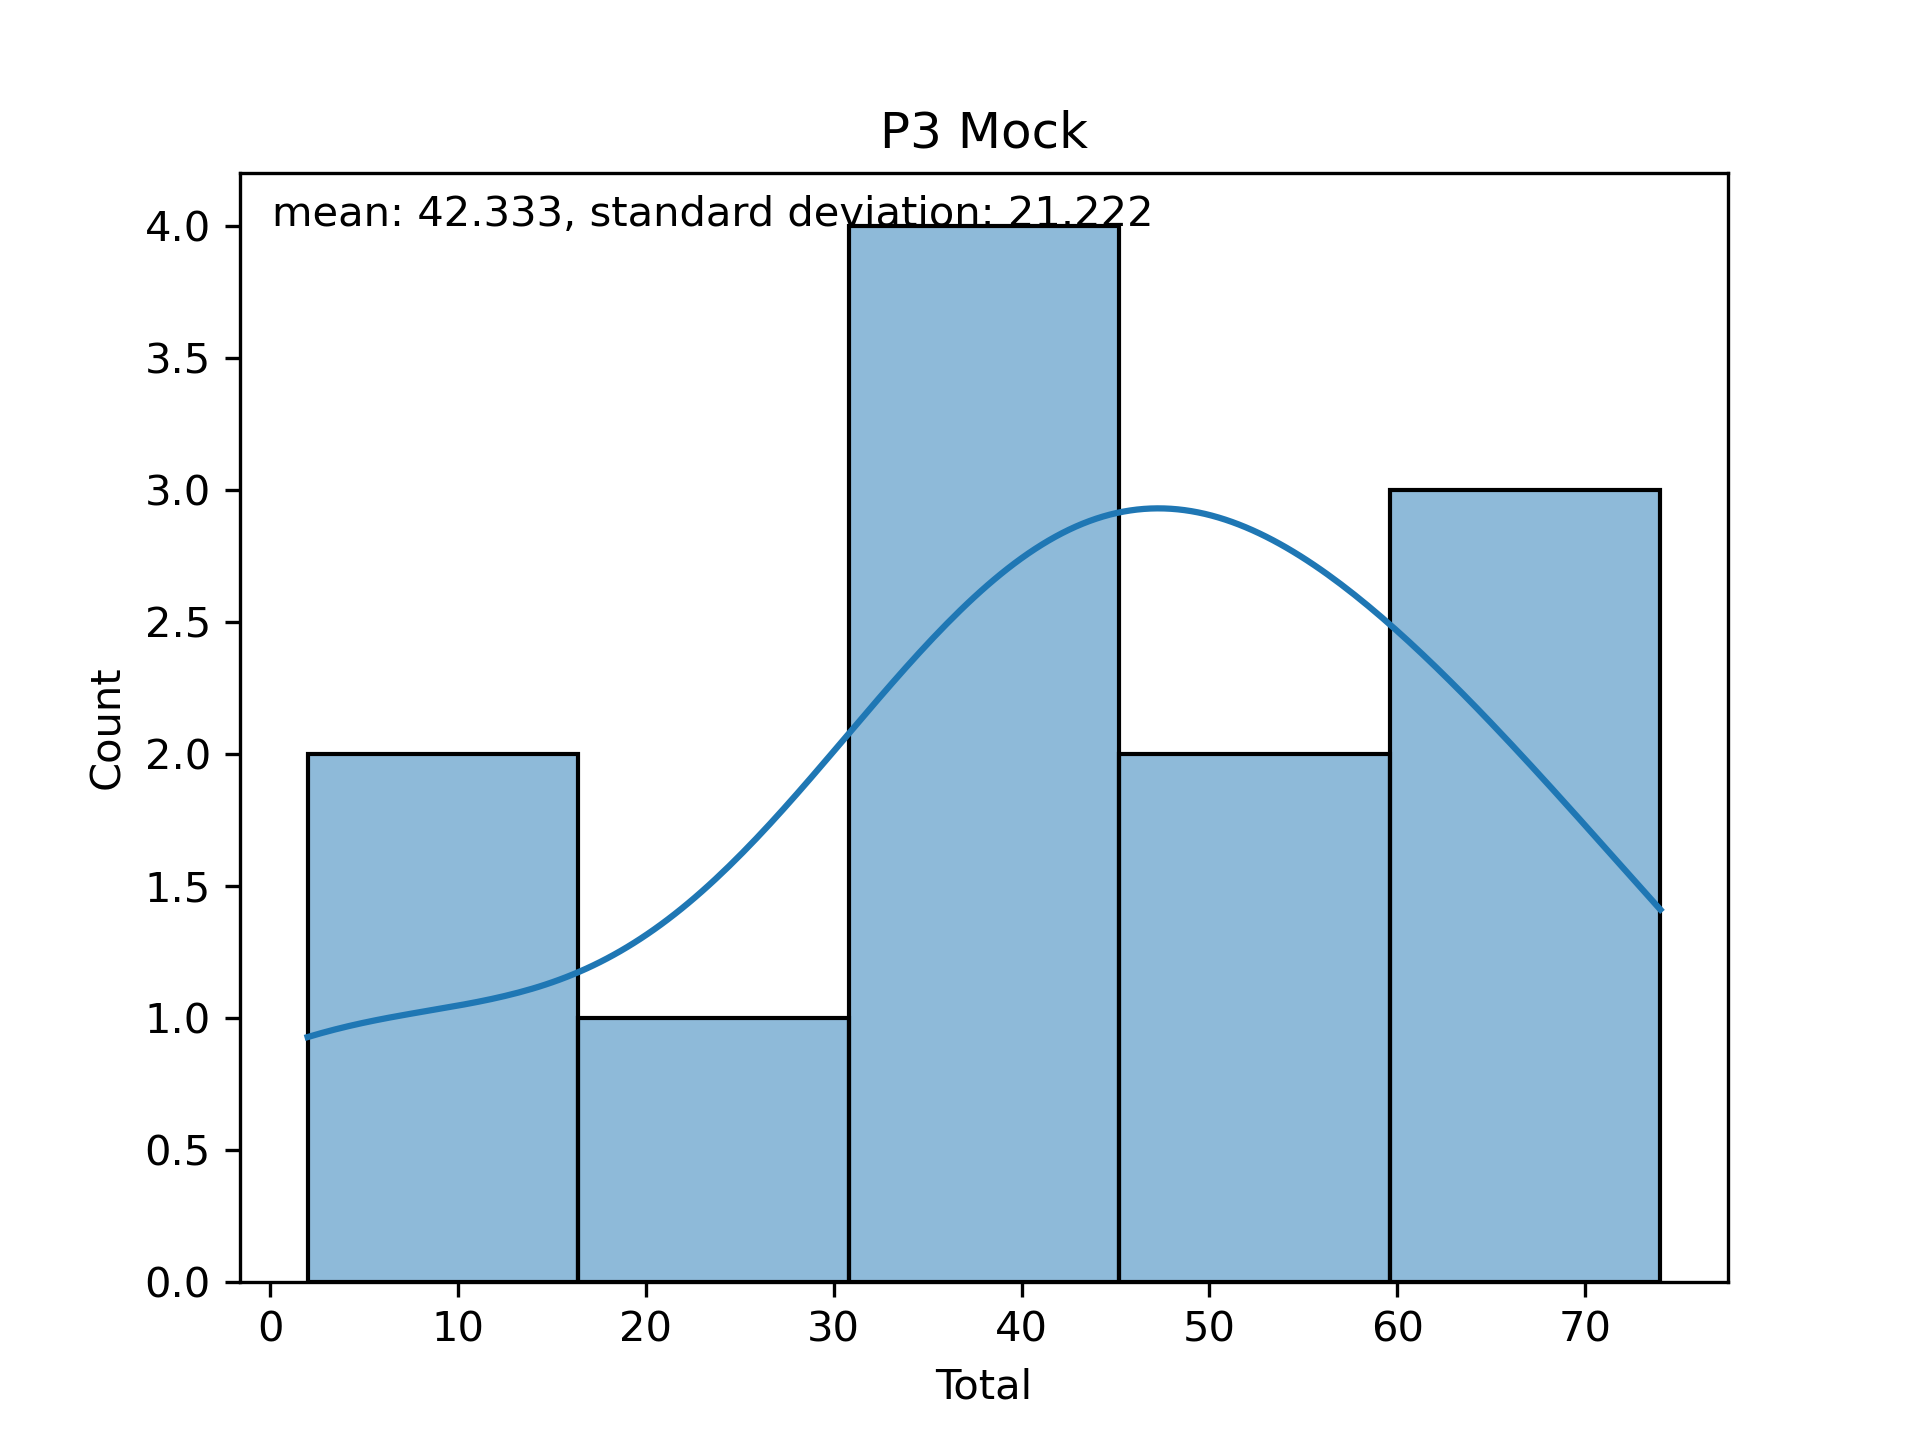
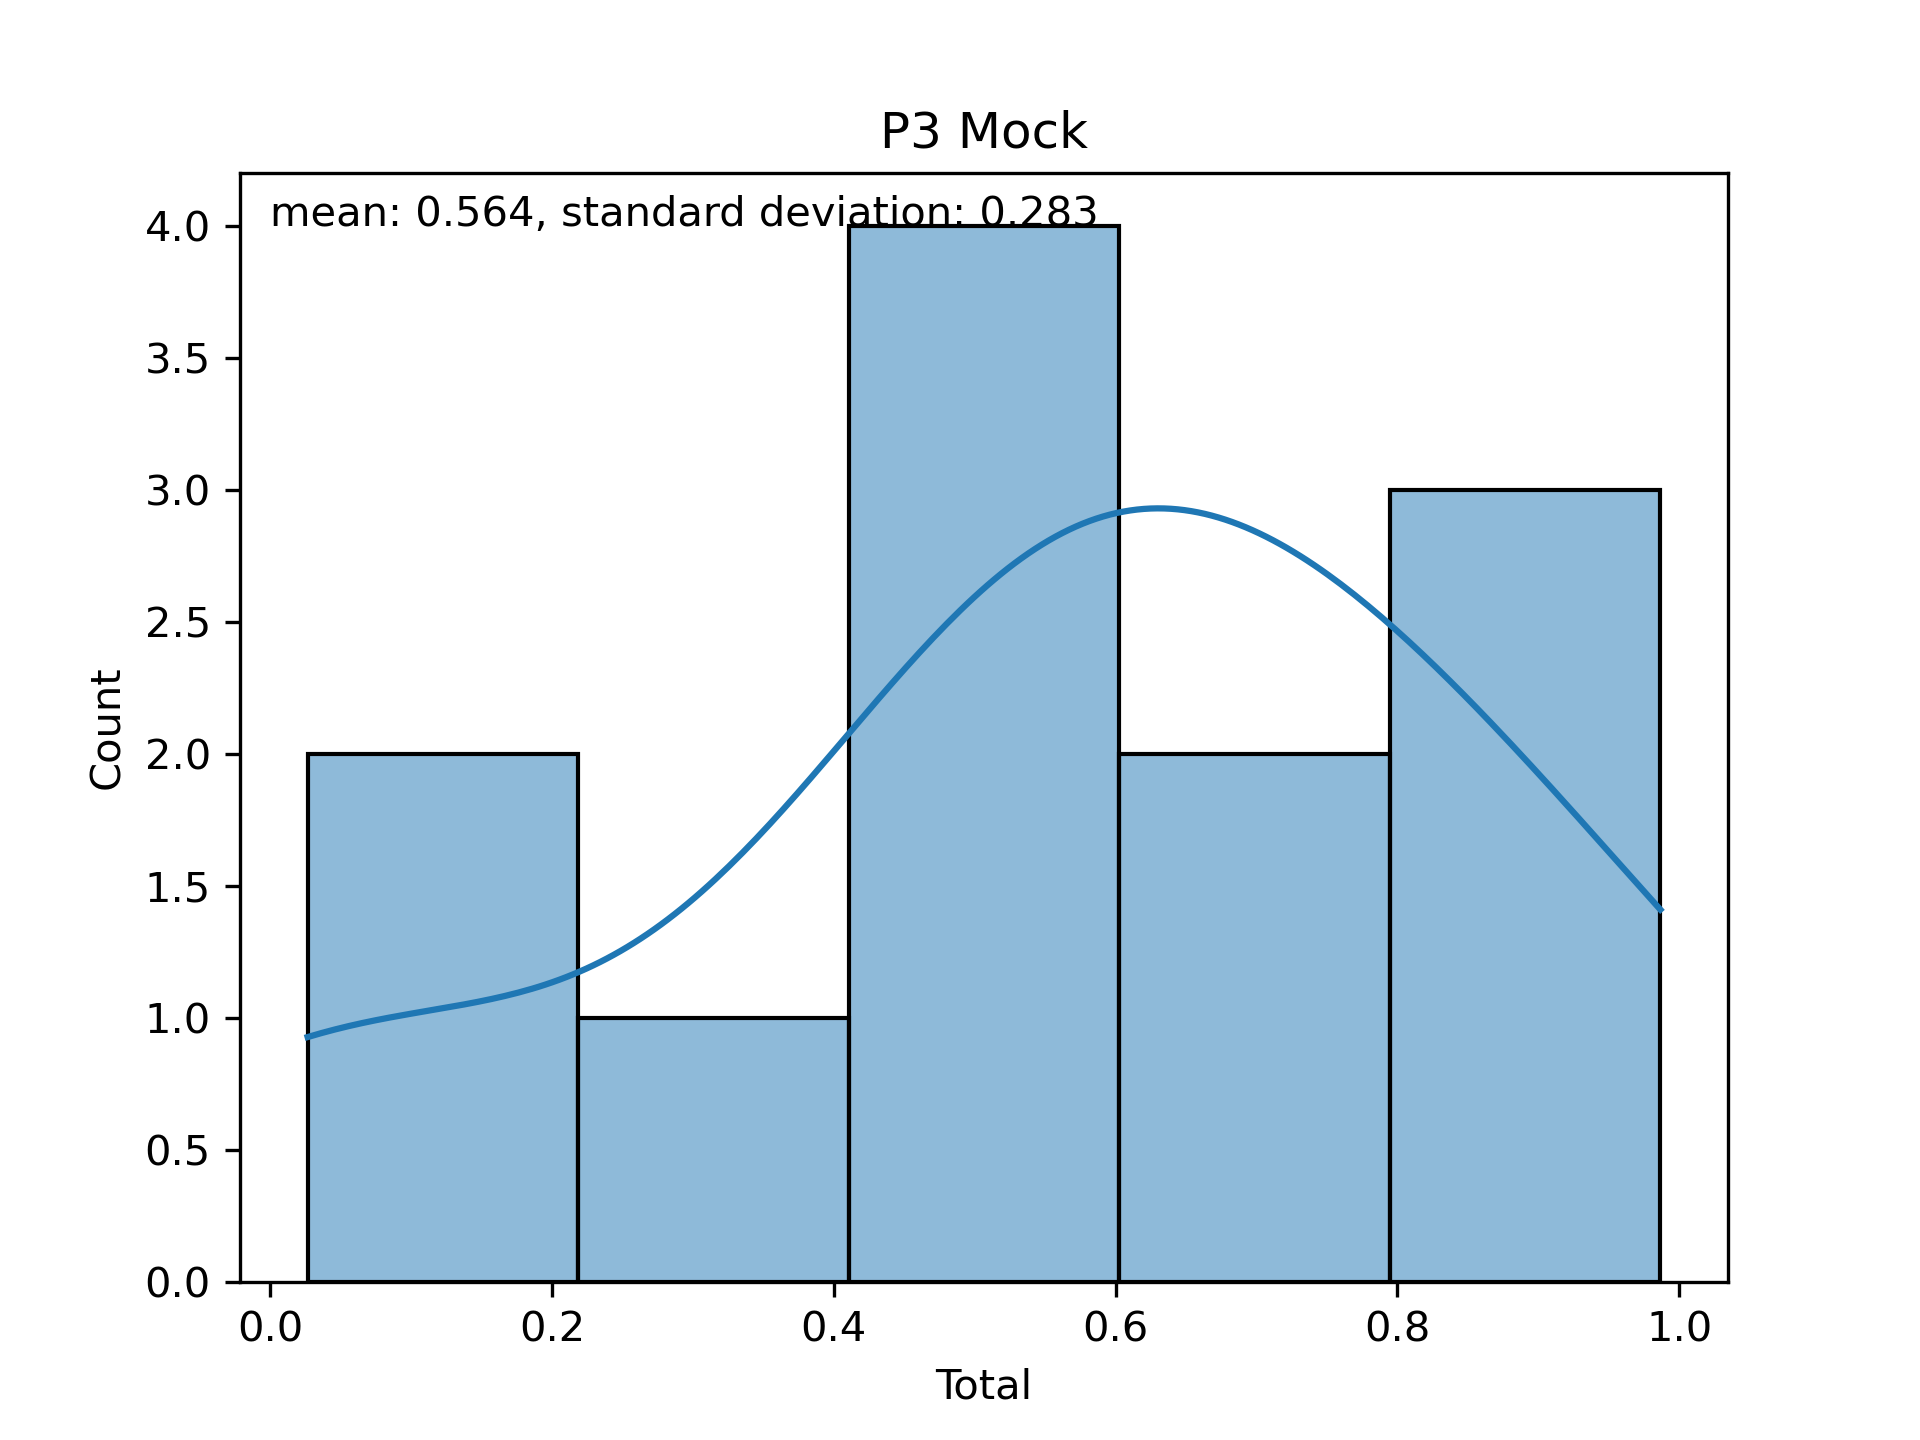
new branch of analyser with graphing functionality

diff --git a/analyser.py b/analyser.py
@@ -1,5 +1,7 @@
 import pandas as pd
 import numpy as np
+import matplotlib.pyplot as plt
+import seaborn as sns
 
 
 class Test:
@@ -14,6 +16,8 @@ class Test:
 
         # Initialize additional dataframes and variables
         self.norm_table = None
+        self.total_marks_table = None  # New dataframe to store total marks
+        self.norm_total = None  # New dataframe to store normalized total marks
         question_cols = [col for col in self.mark_table.columns if col.startswith("Q")]
 
         # Determine question numbers based on the presence of parts
@@ -26,19 +30,16 @@ class Test:
 
         # Calculate total marks available for each question part and overall total
         total_marks = {}
-        # print(self.__question_nos)
         for q_num in self.__question_nos:
             question_parts = [
                 col for col in self.__total.columns if col.startswith(q_num)
             ]
-            # print(question_parts)
-            self.__total.loc[:, q_num + "_Total"] = (
-                self.__total[question_parts].sum(axis=1).sum()
-            )
-            # print(self.__total.shape)
+            q_total = self.__total[question_parts].sum(axis=1).sum()
+            total_marks[q_num + "_Total"] = q_total
+            self.__total[q_num + "_Total"] = q_total
+
             for part in question_parts:
                 total_marks[part] = self.__total[part].values[0]
-            total_marks[q_num + "_Total"] = self.__total[q_num + "_Total"].values[0]
 
         total_marks["Total"] = self.__total.filter(like="_Total").sum(axis=1).values[0]
 
@@ -47,41 +48,54 @@ class Test:
             list(total_marks.items()), columns=["Question", "Marks_Available"]
         )
 
-    def add_total_mark(self):
-        # Adding total marks per question and overall total to mark_table
-        question_cols = [col for col in self.mark_table.columns if col.startswith("Q")]
+        # Initialize total_marks_table with total marks
+        self._initialize_total_marks_table()
 
+        # Normalize the total marks table
+        self._initialize_norm_total()
+
+    def _initialize_total_marks_table(self):
         if self.__parts:
-            # Initialize a dictionary to store the sums for each question
-            question_sums = {q_num: 0 for q_num in self.__question_nos}
-
+            columns = ["Name"] + [q + "_Total" for q in self.__question_nos] + ["Total"]
+            self.total_marks_table = self.mark_table.copy()
             for q_num in self.__question_nos:
                 question_parts = [
                     col for col in self.mark_table.columns if col.startswith(q_num)
                 ]
-                self.mark_table[q_num + "_Total"] = self.mark_table[question_parts].sum(
-                    axis=1
-                )
-                question_sums[q_num] = self.mark_table[q_num + "_Total"]
+                self.total_marks_table[q_num + "_Total"] = self.mark_table[
+                    question_parts
+                ].sum(axis=1)
 
-            # print(question_sums)
             # Add a new column with total marks for each student
             total_cols = [q + "_Total" for q in self.__question_nos]
-            self.mark_table["Total"] = self.mark_table[total_cols].sum(axis=1)
+            self.total_marks_table["Total"] = self.total_marks_table[total_cols].sum(
+                axis=1
+            )
+            self.total_marks_table = self.total_marks_table.loc[:, columns]
         else:
-            self.__question_nos = question_cols
-            self.mark_table["Total"] = self.mark_table[self.__question_nos].sum(axis=1)
+            self.total_marks_table = self.mark_table.copy()
+            self.total_marks_table["Total"] = self.total_marks_table[
+                self.__question_nos
+            ].sum(axis=1)
 
-        return self
+    def _initialize_norm_total(self):
+        # Create a normalized version of the total_marks_table
+        self.norm_total = self.total_marks_table.copy()
 
-    def get_total_marks(self):
-        if self.__parts:
-            columns = ["Name"] + [q + "_Total" for q in self.__question_nos] + ["Total"]
-            mt = self.add_total_mark().mark_table
-            total = mt.loc[:, columns]
-        else:
-            total = self.add_total_mark().mark_table
-        return total
+        for q_num in self.__question_nos:
+            total_column = q_num + "_Total"
+            max_marks = self.available_marks[
+                self.available_marks["Question"] == total_column
+            ]["Marks_Available"].values[0]
+
+            # Normalize each question total
+            self.norm_total[total_column] = self.norm_total[total_column] / max_marks
+
+        # Normalize the overall total
+        total_max_marks = self.available_marks[
+            self.available_marks["Question"] == "Total"
+        ]["Marks_Available"].values[0]
+        self.norm_total["Total"] = self.norm_total["Total"] / total_max_marks
 
     def marks(self, norm=False, to_one=False):
         df = self.mark_table
@@ -140,10 +154,48 @@ class Test:
             )
         return self
 
+    def total_marks_analysis(self, file_path):
+        # Create a figure with subplots
+        fig, axes = plt.subplots(3, 1, figsize=(14, 18))
+        plt.subplots_adjust(hspace=0.5)
+
+        # Plot 1: Heatmap of Student Scores
+        heatmap_data = self.mark_table.set_index("Name")
+        sns.heatmap(
+            heatmap_data, annot=True, cmap="coolwarm", linewidths=0.5, ax=axes[0]
+        )
+        axes[0].set_title("Heatmap of Student Scores")
+
+        # Plot 2: Annotated Histogram of Total Marks
+        hist = sns.histplot(data=self.norm_total, x="Total", kde=True, ax=axes[1])
+        mean_total = np.mean(self.norm_total["Total"])
+        std_total = np.std(self.norm_total["Total"])
+        data = f"mean: {mean_total:.3f}, standard deviation: {std_total:.3f}"
+        axes[1].set_title("Distribution of Normalized Total Marks")
+        axes[1].annotate(data, xy=(0.6, 0.8), xycoords="axes fraction")
+
+        # Plot 3: Stacked Bar Plot of Average Normalized Scores
+        df_avg = (
+            self.marks(norm=True, to_one=True)
+            .groupby(["Question", "Part"])["Mark"]
+            .mean()
+            .unstack()
+            .fillna(0)
+        )
+        df_avg.plot(kind="bar", stacked=True, ax=axes[2])
+        axes[2].set_title("Average Normalized Scores for Each Question Part")
+        axes[2].set_ylabel("Average Normalized Mark")
+        axes[2].set_xlabel("Questions")
+        axes[2].legend(title="Part", bbox_to_anchor=(1.05, 1), loc="upper left")
+
+        # Save the figure to a file
+        plt.savefig(file_path, dpi=300, bbox_inches="tight")
+        plt.close(fig)
+        return self
+
 
 # Create an instance of Test
-# p3_mock = Test("example.csv")
-# df_total_marks = p3_mock.get_total_marks()
-
+p3_mock = Test("example.csv")
+p3_mock.total_marks_analysis("Output/test_analyser.png")
 # Inspect the total marks DataFrame
-# print(df_total_marks)
+# print(p3_mock.normalise_marks(to_one=False).norm_table)
